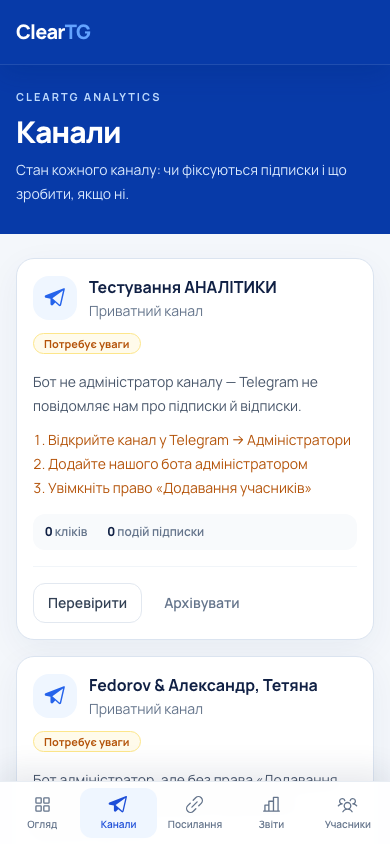
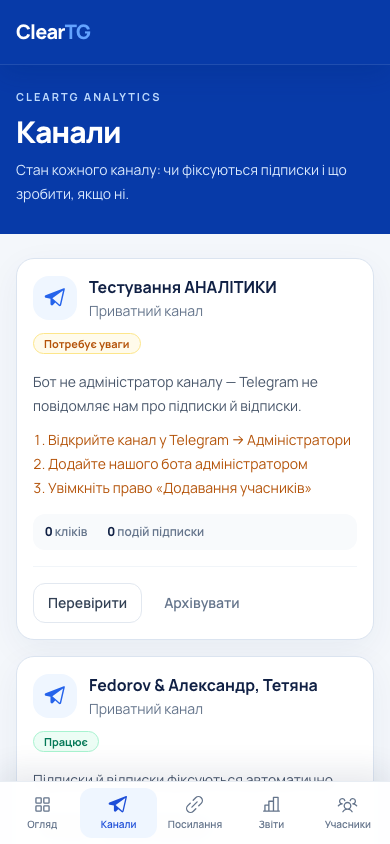
Fix false channel permission warning

Changed region(s): [[0.0923, 0.8626, 0.3692, 0.8934], [0.6769, 0.8934, 0.7077, 0.9242]]

diff --git a/apps/web/src/app/v2/channels/page.tsx b/apps/web/src/app/v2/channels/page.tsx
@@ -3,8 +3,34 @@ import { api, AuthError } from '@/lib/api';
 import { PageHeader, ErrorState, DisconnectedState } from '@/components/v2/ui';
 import { ChannelCard, type ChannelListItem } from '@/components/v2/channels/ChannelCard';
 import { ConnectChannelPanel } from '@/components/v2/channels/ConnectChannelPanel';
+import type { BotStatusResponse } from '@/components/v2/channels/channel-status';
 
 export const dynamic = 'force-dynamic';
+
+/**
+ * Сумісність із попередньою версією API, яка ще не віддавала
+ * `botCanInviteUsers` у списку. Відсутнє поле не можна трактувати як false:
+ * для активних каналів один раз уточнюємо реальний стан через уже наявний
+ * bot-status endpoint. Після оновлення API цей fallback взагалі не виконується.
+ */
+async function hydrateLegacyBotPermissions(channels: ChannelListItem[]) {
+  return Promise.all(channels.map(async (channel) => {
+    if (!channel.isActive || typeof channel.botCanInviteUsers === 'boolean') return channel;
+
+    try {
+      const check = await api<BotStatusResponse>(`/api/channels/${channel.id}/bot-status`);
+      return {
+        ...channel,
+        botIsAdmin: check.isAdmin,
+        botCanInviteUsers: check.canInviteUsers,
+      };
+    } catch {
+      // Якщо жива перевірка тимчасово недоступна, не підміняємо unknown на
+      // false: картка не повинна показувати вигадану проблему з правами.
+      return channel;
+    }
+  }));
+}
 
 /**
  * Канали — перший перенесений модуль MVP.
@@ -27,7 +53,8 @@ export default async function V2ChannelsPage() {
   let sessionExpired = false;
 
   try {
-    channels = await api<ChannelListItem[]>('/api/channels');
+    const storedChannels = await api<ChannelListItem[]>('/api/channels');
+    channels = await hydrateLegacyBotPermissions(storedChannels);
   } catch (err) {
     // middleware перекидає на /login лише коли cookie немає зовсім.
     // Протухлий токен доходить сюди — показуємо зрозумілий стан,

diff --git a/apps/web/src/components/v2/channels/channel-status.test.ts b/apps/web/src/components/v2/channels/channel-status.test.ts
@@ -1,0 +1,39 @@
+import { describe, expect, it } from 'vitest';
+import { deriveChannelStatus } from './channel-status';
+
+describe('deriveChannelStatus', () => {
+  it('не трактує відсутнє legacy-поле права як заборону', () => {
+    expect(deriveChannelStatus({
+      isActive: true,
+      botIsAdmin: true,
+    })).toMatchObject({
+      status: 'working',
+      label: 'Працює',
+      tone: 'ok',
+    });
+  });
+
+  it('показує попередження, коли право явно вимкнене', () => {
+    expect(deriveChannelStatus({
+      isActive: true,
+      botIsAdmin: true,
+      botCanInviteUsers: false,
+    })).toMatchObject({
+      status: 'attention',
+      label: 'Потребує уваги',
+      tone: 'warn',
+    });
+  });
+
+  it('показує робочий стан після підтвердженої live-перевірки', () => {
+    expect(deriveChannelStatus({
+      isActive: true,
+      botIsAdmin: true,
+      botCanInviteUsers: true,
+    })).toMatchObject({
+      status: 'working',
+      label: 'Працює',
+      tone: 'ok',
+    });
+  });
+});

diff --git a/apps/web/src/components/v2/channels/ChannelCard.tsx b/apps/web/src/components/v2/channels/ChannelCard.tsx
@@ -9,7 +9,8 @@ export interface ChannelListItem {
   username: string | null;
   isActive: boolean;
   botIsAdmin: boolean;
-  botCanInviteUsers: boolean;
+  /** Старий production API не повертав це поле — відрізняємо unknown від false. */
+  botCanInviteUsers?: boolean;
   _count: { membershipEvents: number; clickEvents: number };
 }
 
@@ -43,7 +44,7 @@ export function ChannelCard({ channel }: { channel: ChannelListItem }) {
 
       <p className="mt-4 text-sm leading-6 text-slate-600">{view.meaning}</p>
 
-      {channel.isActive && (!channel.botIsAdmin || !channel.botCanInviteUsers) && (
+      {channel.isActive && (!channel.botIsAdmin || channel.botCanInviteUsers === false) && (
         <ol className="mt-3 space-y-1 text-sm text-amber-700">
           <li>1. Відкрийте канал у Telegram → Адміністратори</li>
           <li>2. Додайте нашого бота адміністратором</li>

diff --git a/apps/web/src/components/v2/channels/channel-status.ts b/apps/web/src/components/v2/channels/channel-status.ts
@@ -23,7 +23,8 @@ export interface ChannelStatusView {
 export interface ChannelStatusInput {
   isActive: boolean;
   botIsAdmin: boolean;
-  botCanInviteUsers: boolean;
+  /** `undefined` означає legacy API payload, а не відсутність права. */
+  botCanInviteUsers?: boolean;
 }
 
 /**
@@ -50,7 +51,7 @@ export function deriveChannelStatus(channel: ChannelStatusInput): ChannelStatusV
     };
   }
 
-  if (!channel.botCanInviteUsers) {
+  if (channel.botCanInviteUsers === false) {
     return {
       status: 'attention',
       label: 'Потребує уваги',

diff --git a/design-qa.md b/design-qa.md
@@ -9,6 +9,7 @@
 - Focused comparisons: `command-deck-comparison-header.png` and `command-deck-comparison-content.png` in the same directory.
 - Additional mobile captures: channels, links, reports and subscribers in `docs/new-dashboard/qa/mobile-*.png`.
 - Custom dropdown captures: `docs/new-dashboard/qa/custom-dropdown-desktop.png` and `docs/new-dashboard/qa/custom-dropdown-mobile.png`.
+- Channel-status compatibility capture: `docs/new-dashboard/qa/channel-status-desktop.png`.
 - State: authenticated staging workspace with real API data, all-time period, all channels.
 - Runtime: optimized Next.js production build in headless Chromium.
 
@@ -29,6 +30,7 @@
 - Focus-visible rings, semantic labels, reduced-motion handling, practical mobile tap areas and readable contrast are implemented.
 - Browser console after the final production pass: no errors or uncaught exceptions.
 - Compatibility guard verified: an older API response without `unknownSourceMonitor` no longer crashes the overview or reports page during a staggered deployment.
+- Verified legacy channel payloads against Telegram live status: confirmed rights render as green `Працює`; an explicit missing-admin response remains yellow `Потребує уваги`.
 
 ## Iterations resolved
 
@@ -37,6 +39,7 @@
 - P1: the full channel list pushed recent activity below the useful overview area; limited the overview preview to three channels while retaining the link to the complete section.
 - P2: development tooling appeared in screenshots; repeated the final pass against the optimized production build.
 - P2: native browser selects broke the Command Deck visual language; replaced them with a shared light/dark dropdown system and verified open states on desktop and mobile.
+- P1: legacy `GET /api/channels` omitted `botCanInviteUsers`, which the UI treated as `false`; missing values now receive a live status check and are never converted into a fabricated warning.
 
 No unresolved P0, P1 or P2 findings remain.
 
